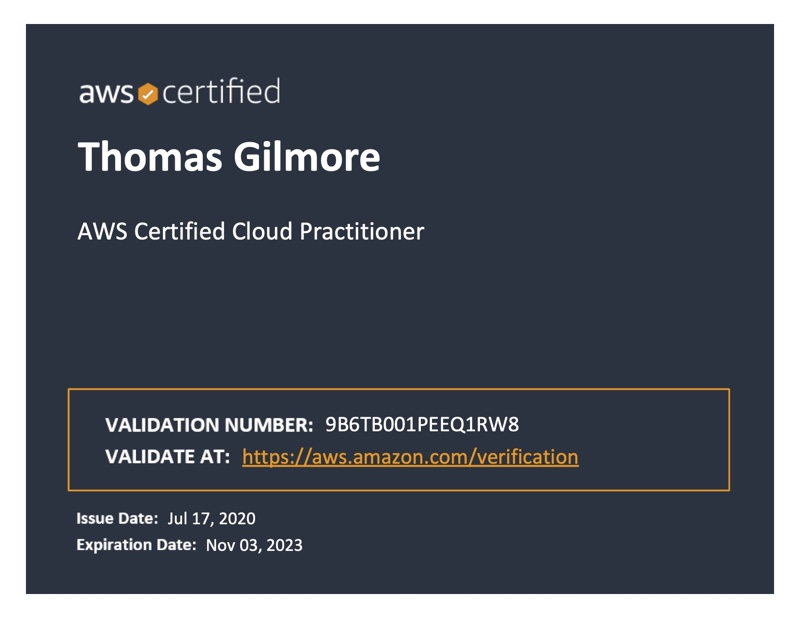
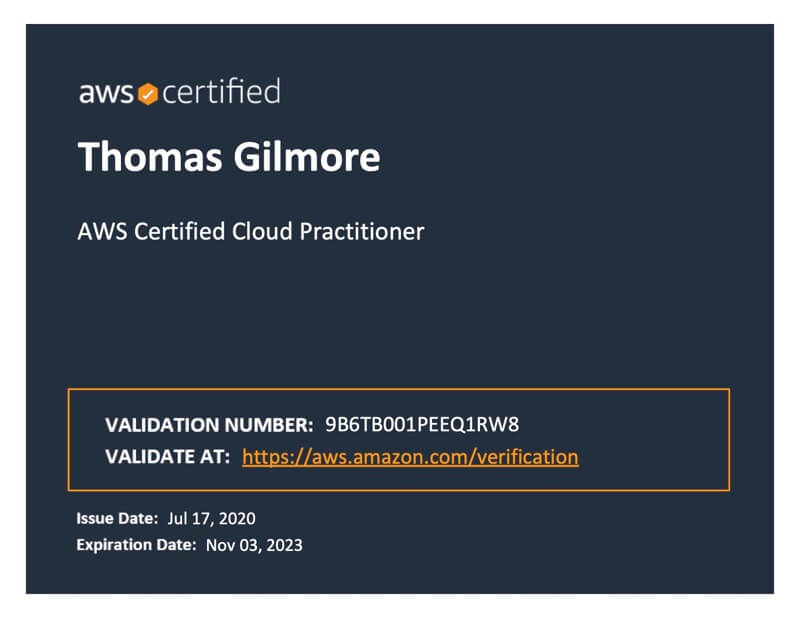
rearrange pictures and deleted pictures that were not needed

diff --git a/src/Components/HeroImage.js b/src/Components/HeroImage.js
@@ -1,19 +1,12 @@
 import React from 'react';
 import './heroimage.css';
-import programmerImage200 from '../Assets/Images/tinified/programmer-1653351_200.png';
-import programmerImage300 from '../Assets/Images/tinified/programmer-1653351_300.png';
-import programmerImage390 from '../Assets/Images/tinified/programmer-1653351_390.png';
-import programmerImageSmall440 from '../Assets/Images/tinified/programmer-1653351_440.png';
-import programmerImageSmall from '../Assets/Images/tinified/programmer-1653351_640.png';
-import programmerImageMedium from '../Assets/Images/tinified/programmer-1653351_1280.png';
-import programmerImageLarge from '../Assets/Images/tinified/programmer-1653351.png';
-// import programmerImage200WebP from '../Assets/Images/programmer-1653351_200.webp';
-// import programmerImage300WebP from '../Assets/Images/programmer-1653351_300.webp';
-// import programmerImage390WebP from '../Assets/Images/programmer-1653351_390.webp';
-// import programmerImageSmall440WebP from '../Assets/Images/programmer-1653351_440.webp';
-// import programmerImageSmallWebP from '../Assets/Images/programmer-1653351_640.webp';
-// import programmerImageMediumWebP from '../Assets/Images/programmer-1653351_1280.webp';
-// import programmerImageLargeWebP from '../Assets/Images/programmer-1653351.webp'
+import programmerImage200 from '../Assets/Images/programmer-1653351_200.png';
+import programmerImage300 from '../Assets/Images/programmer-1653351_300.png';
+import programmerImage390 from '../Assets/Images/programmer-1653351_390.png';
+import programmerImageSmall440 from '../Assets/Images/programmer-1653351_440.png';
+import programmerImageSmall from '../Assets/Images/programmer-1653351_640.png';
+import programmerImageMedium from '../Assets/Images/programmer-1653351_1280.png';
+import programmerImageLarge from '../Assets/Images/programmer-1653351.png';
 
 export default function HeroImage() {
   return (

diff --git a/src/Components/Certificates.js b/src/Components/Certificates.js
@@ -1,12 +1,12 @@
 import './certificates.css';
 import React from 'react';
 import UdacityFrontEndDeveloeprCertificate from '../Assets/Certs/Front-End-Developer-Certifcate.jpg';
-import UdemyNodejsDeveloperCourse from '../Assets/Certs/tinified/Udemy-NodejsDeveloperCourse.jpg';
-import UdemyReactDeveloperCourse from '../Assets/Certs/tinified/UdemyReactDeveloperCourse.jpg';
+import UdemyNodejsDeveloperCourse from '../Assets/Certs/Udemy-NodejsDeveloperCourse.jpg';
+import UdemyReactDeveloperCourse from '../Assets/Certs/UdemyReactDeveloperCourse.jpg';
 import AWSCertifiedCloudPractitionerBadge from '../Assets/aws-certified-cloud-practitioner.png';
-import AWSCertifiedCloudPractitionerCertificate from '../Assets/Certs/tinified/AWS-Certified-Cloud-Practitioner-certificate-3.jpg';
+import AWSCertifiedCloudPractitionerCertificate from '../Assets/Certs/AWS-Certified-Cloud-Practitioner-certificate-3.jpg';
 import AWSCertifiedDeveloperAssociateBadge from '../Assets/aws-certified-developer-associate.png';
-import AWSCertifiedDeveloperAssociateCertificate from '../Assets/Certs/tinified/AWS-Certified-Developer-Associate-certificate-2.jpg';
+import AWSCertifiedDeveloperAssociateCertificate from '../Assets/Certs/AWS-Certified-Developer-Associate-certificate-2.jpg';
 
 
 export default function Certificates() {

diff --git a/src/Context/Context.js b/src/Context/Context.js
@@ -1,8 +1,8 @@
 import React, { createContext, useState, useEffect } from 'react';
-import WineRecommendationImage from '../Assets/Projects/tinified/wine-recommendations-square-version-2.jpg';
-import MoodyCreatureSociety from '../Assets/Projects/tinified/moody-creature-society.jpg';
-import PokemonIndex from '../Assets/Projects/tinified/pokemon-index.jpg';
-import DesignoMultiPageWebsite from '../Assets/Projects/tinified/designo-multi-page-website.jpg';
+import WineRecommendationImage from '../Assets/Projects/wine-recommendations-square-version-2.jpg';
+import MoodyCreatureSociety from '../Assets/Projects/moody-creature-society.jpg';
+import PokemonIndex from '../Assets/Projects/pokemon-index.jpg';
+import DesignoMultiPageWebsite from '../Assets/Projects/designo-multi-page-website.jpg';
 
 const PortfolioContext = createContext();
 
